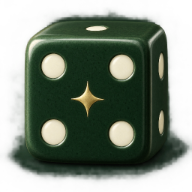
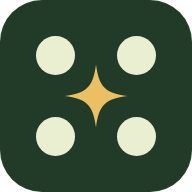
重绘网站图标为扁平骰子矢量图
- 去掉照片风格骰子的斑驳阴影与半透明脏边，改为森林绿圆角底 + 奶白骰点 + 金色四角星
- 新增 favicon.svg 链接；favicon.ico 补齐 16/32/48 三个尺寸
- apple-touch-icon 改为不透明满版，避免 iOS 把透明区域填黑
- 新增 scripts/build-favicons.mjs，从 favicon.svg 生成全部 PNG 与 ICO

diff --git a/index.html b/index.html
@@ -1,1 +1,1 @@
-<!doctype html><html lang="en-US"><head><meta charset="UTF-8"/><meta name="viewport" content="width=device-width, initial-scale=1.0"/><script>try{var t=JSON.parse(localStorage.getItem("rngdle.art.theme"));if(t==="dark"||t==="light")document.documentElement.dataset.theme=t}catch(e){}</script><meta name="theme-color" content="#eaefd1"/><link rel="icon" type="image/x-icon" href="/favicon.ico" sizes="16x16 32x32 48x48"/><link rel="icon" type="image/png" sizes="32x32" href="/favicon-32x32.png"/><link rel="icon" type="image/png" sizes="16x16" href="/favicon-16x16.png"/><link rel="apple-touch-icon" sizes="180x180" href="/apple-touch-icon.png"/><link rel="manifest" href="/site.webmanifest"/><title>RNGDLE.ART — The number rarity lab</title><meta name="description" content="Discover the patterns hidden in numbers. Analyze rarity, roll without limits and play daily number challenges."/></head><body><div id="root"></div><script type="module" src="/src/main.tsx"></script></body></html>
+<!doctype html><html lang="en-US"><head><meta charset="UTF-8"/><meta name="viewport" content="width=device-width, initial-scale=1.0"/><script>try{var t=JSON.parse(localStorage.getItem("rngdle.art.theme"));if(t==="dark"||t==="light")document.documentElement.dataset.theme=t}catch(e){}</script><meta name="theme-color" content="#eaefd1"/><link rel="icon" type="image/svg+xml" href="/favicon.svg"/><link rel="icon" type="image/x-icon" href="/favicon.ico" sizes="16x16 32x32 48x48"/><link rel="icon" type="image/png" sizes="32x32" href="/favicon-32x32.png"/><link rel="icon" type="image/png" sizes="16x16" href="/favicon-16x16.png"/><link rel="apple-touch-icon" sizes="180x180" href="/apple-touch-icon.png"/><link rel="manifest" href="/site.webmanifest"/><title>RNGDLE.ART — The number rarity lab</title><meta name="description" content="Discover the patterns hidden in numbers. Analyze rarity, roll without limits and play daily number challenges."/></head><body><div id="root"></div><script type="module" src="/src/main.tsx"></script></body></html>
